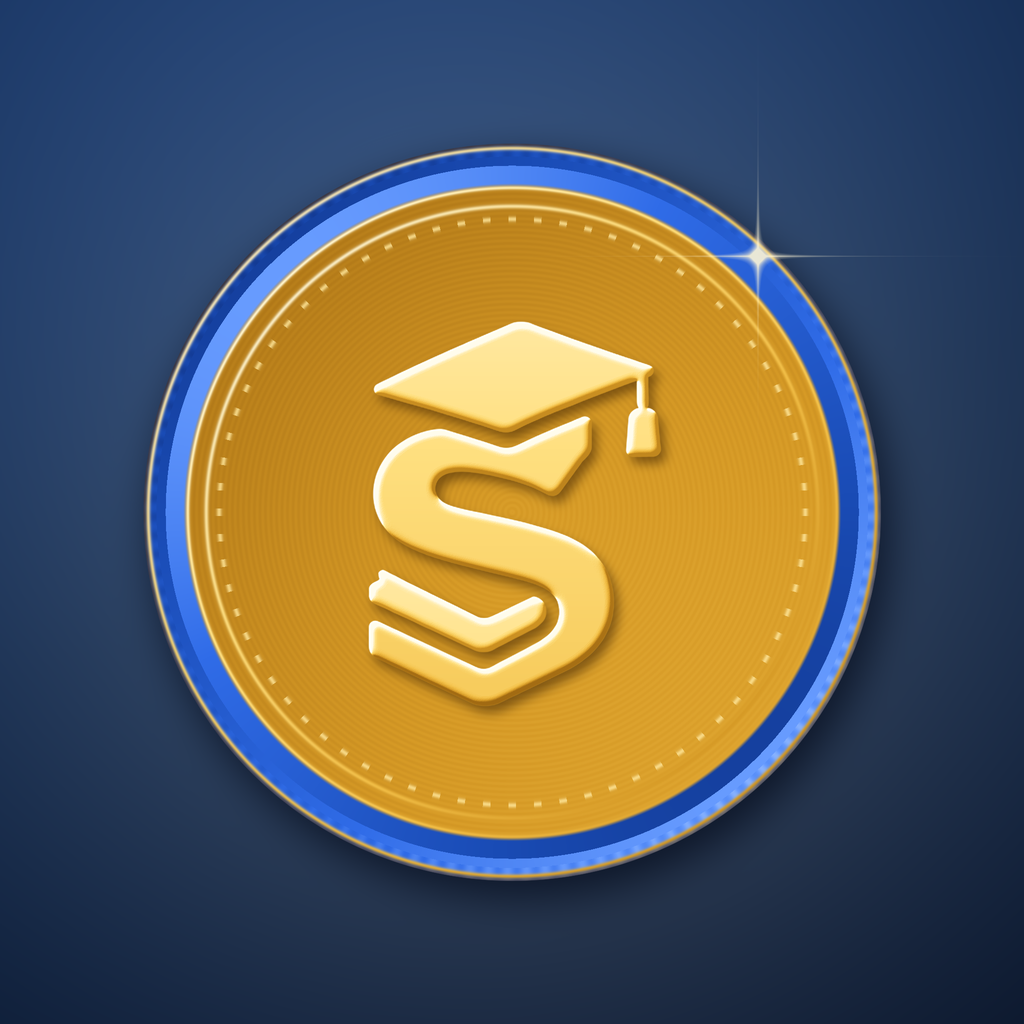
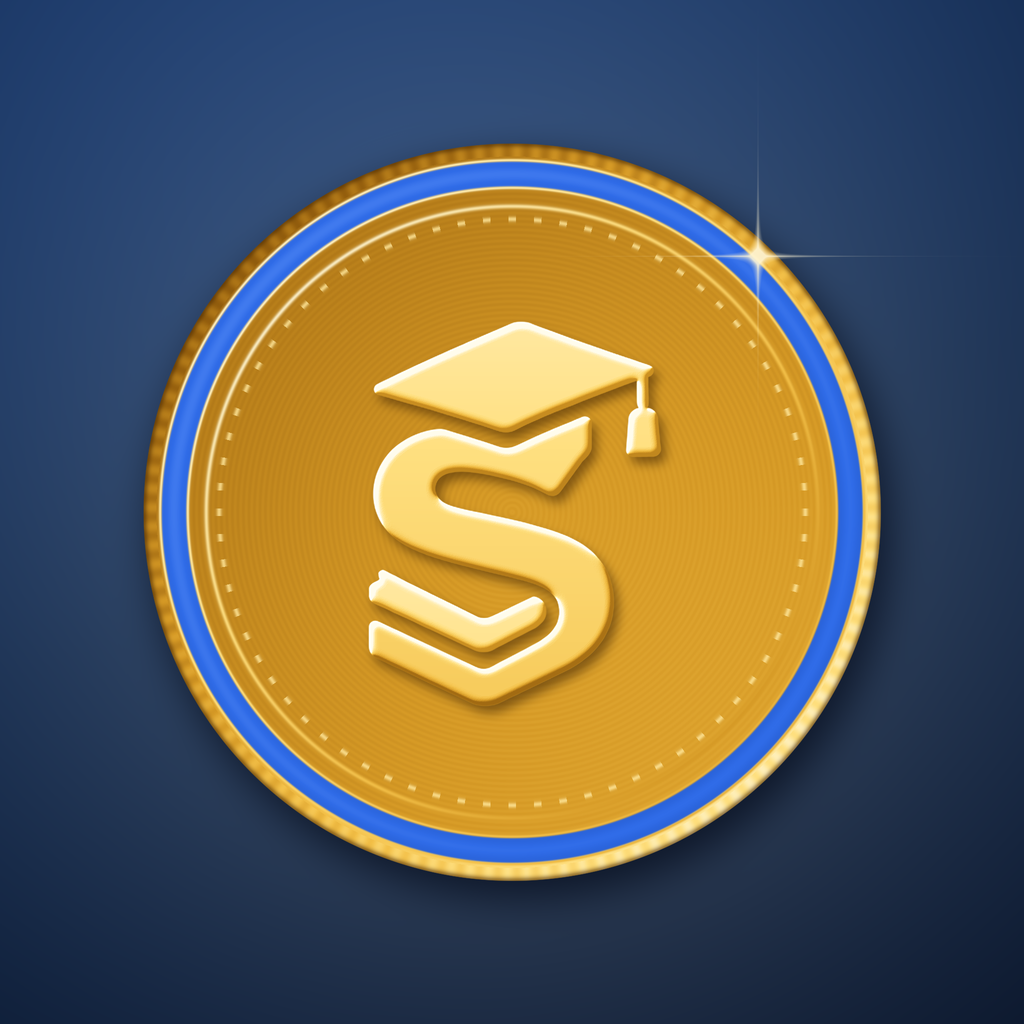
Credits coin: even blue on the rim only, the ridged edge back to gold
Claude-Session: https://claude.ai/code/session_01GobWpT85o28siu684qFHUz

Changed region(s): [[0.125, 0.125, 0.875, 0.875]]

diff --git a/build-resources/credits-art/render-coins.py b/build-resources/credits-art/render-coins.py
@@ -122,11 +122,17 @@ def gold_face(cx, cy, r, img, alpha_mask=None, field_tone=0.52, rim=0.12, reeds=
     band = np.clip((rn - rim_in) / 0.012, 0, 1)
     rim_light = 0.5 + 0.42 * np.cos(ang + np.pi * 0.75) * (1 - 2 * (rn > (rim_in + 1) / 2))  # bevel: outer slope lit opposite to inner slope
     rim_t = 0.55 + 0.30 * np.cos(ang + np.pi * 0.75) * np.where(rn > (1 + rim_in) / 2, -1, 1) + 0.05 * np.sin(ang * reeds) * (rn > 0.965)
-    col = lerp(col, ramp(rim_t, BLUE if rim_blue else GOLD), band)
+    col = lerp(col, ramp(rim_t, GOLD), band)
     if rim_blue:
-        # thin gold lips on both sides of the blue rim
-        lip_o = np.exp(-((rn - 0.988) / 0.006) ** 2); lip_i = np.exp(-((rn - rim_in) / 0.005) ** 2)
-        col = lerp(col, ramp(0.72 + 0.22 * np.cos(ang + np.pi * 0.75), GOLD), np.clip(lip_o + lip_i, 0, 1))
+        # the rim (not the ridged outer edge) in one even Studyboard blue, with a gentle highlight along its middle
+        edge_r = 0.955
+        rb = np.clip((rn - rim_in) / 0.006, 0, 1) * np.clip((edge_r - rn) / 0.006, 0, 1)
+        mid = (rim_in + edge_r) / 2
+        bt = 0.58 + 0.10 * np.exp(-((rn - mid) / ((edge_r - rim_in) * 0.3)) ** 2) + 0.03 * np.cos(ang + np.pi * 0.75)
+        col = lerp(col, ramp(bt, BLUE), rb)
+        # thin gold lips where the blue meets the face and the edge
+        lips = np.exp(-((rn - rim_in) / 0.004) ** 2) + np.exp(-((rn - edge_r) / 0.004) ** 2)
+        col = lerp(col, ramp(0.74 + 0.18 * np.cos(ang + np.pi * 0.75), GOLD), np.clip(lips, 0, 1))
     if inner_ring:
         ring_r = rim_in - 0.05
         ring = np.exp(-((rn - ring_r) / 0.006) ** 2)
